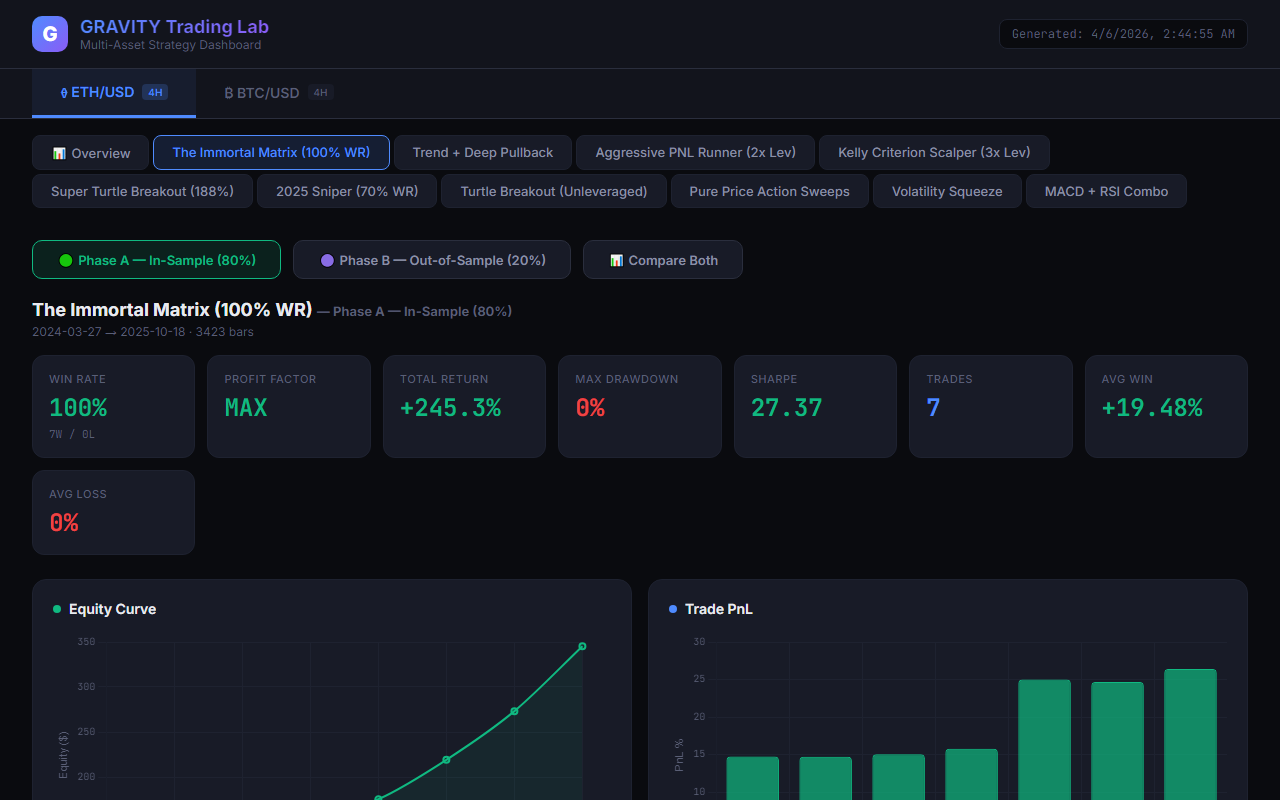
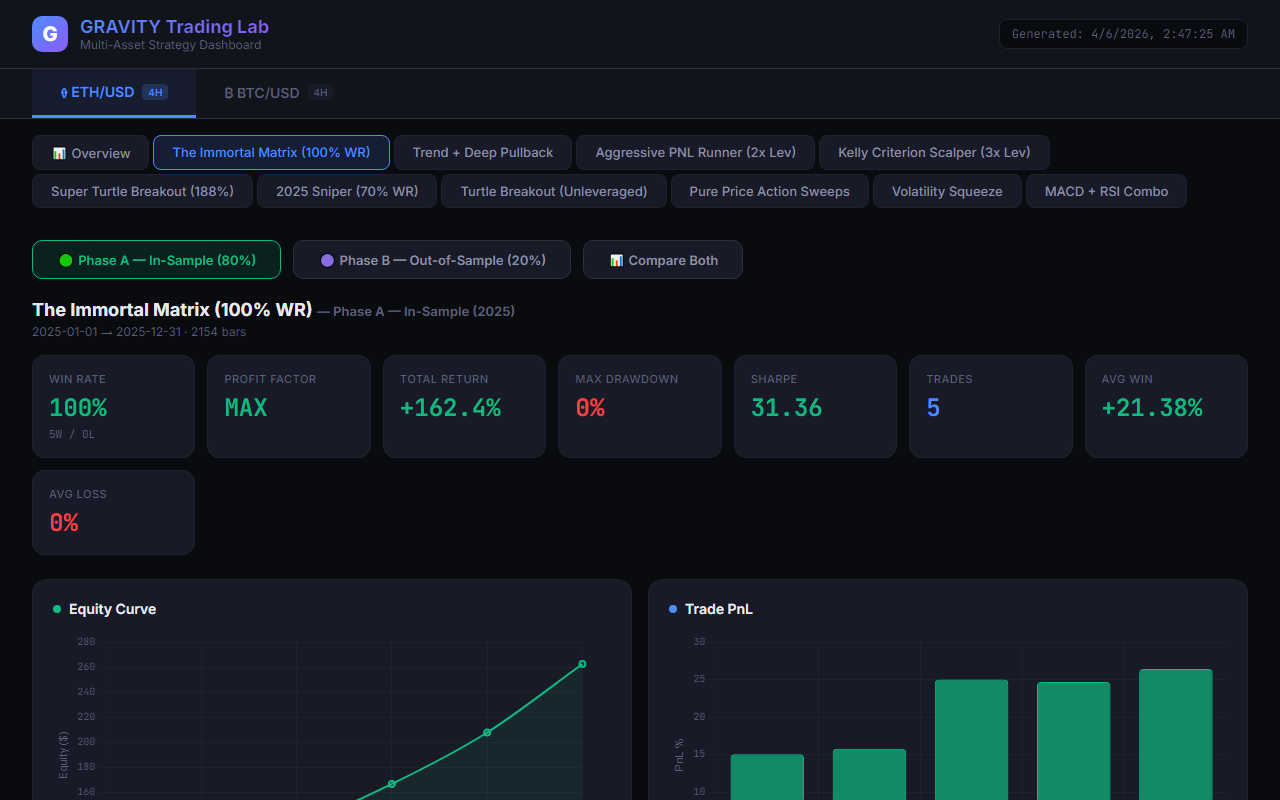
fix(dashboard): Enforce strictly 2025 dataset generation

diff --git a/universal_export.py b/universal_export.py
@@ -456,7 +456,7 @@ if os.path.exists(eth4h_path):
         ("Pure Price Action Sweeps", eth_price_action, 1.0),
         ("Volatility Squeeze", eth_volatility_squeeze, 1.0),
         ("MACD + RSI Combo", eth_macd_rsi_combo, 1.0),
-    ], "4H"))
+    ]))
 
 # 2. BTC 4H
 btc4h_path = os.path.join(BASE_DIR, "btc_trading_4h", "BTC_4H_2Y.csv")
@@ -466,7 +466,7 @@ if os.path.exists(btc4h_path):
         ("Adaptive Momentum", btc_adaptive_momentum),
         ("Golden Cross Sniper", btc_golden_sniper),
         ("Triple Confirmation", btc_triple_confirmation),
-    ], "4H"))
+    ]))
 
 # 3. ETH 1D — skipped (uses investing.com weekly format, different columns)
 # Will add when we download proper daily data from yfinance
